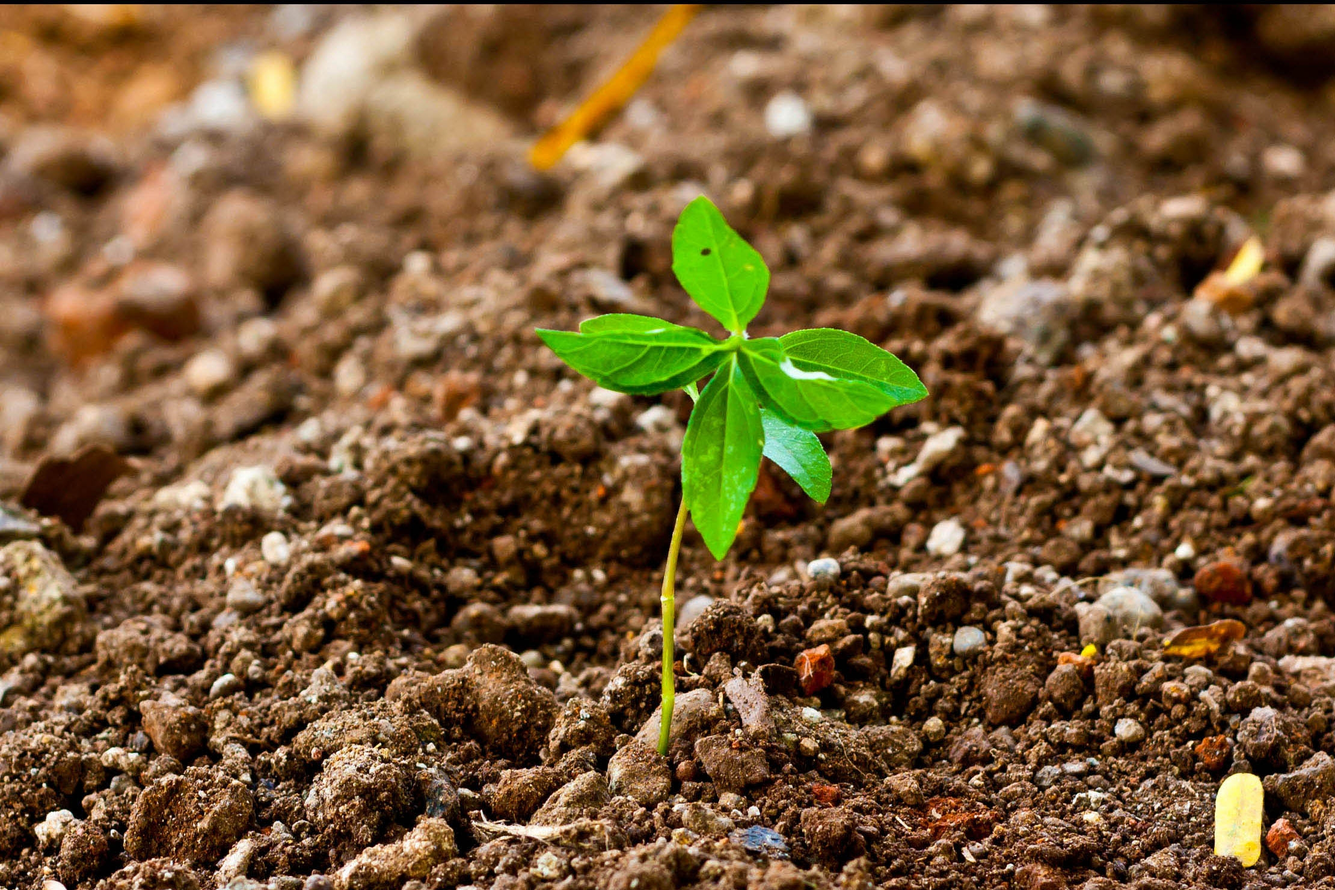
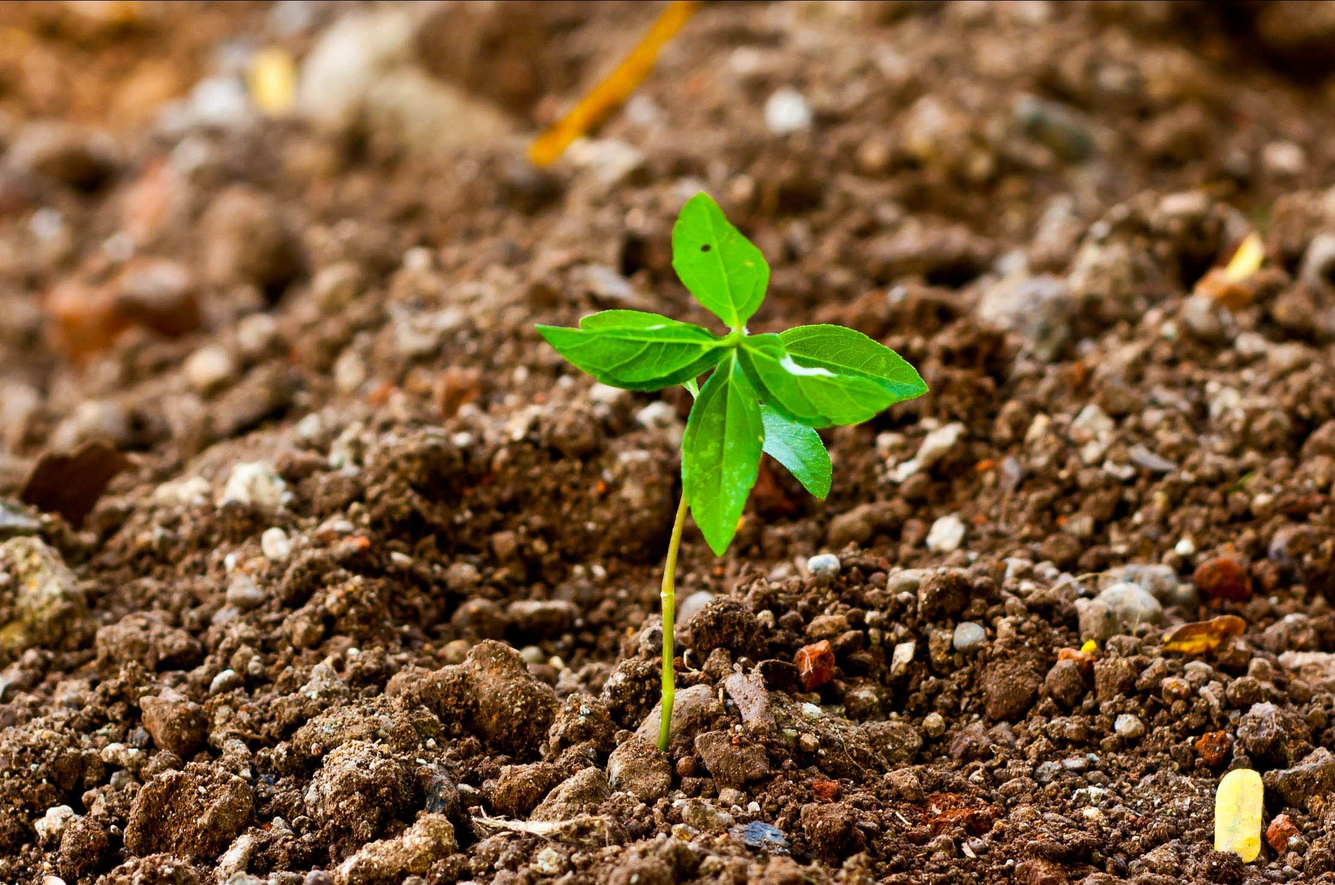
Set roots SVG to be centered (mobile and desktop)

diff --git a/sass/style.scss b/sass/style.scss
@@ -8,6 +8,7 @@ $bgimage: "../.ideas/stock-photo-young-plant-in-the-morning-light-174839018_crop
 $bgUnderground: "../.ideas/stock-photo-young-plant-in-the-morning-light-174839018_crop_underground.png";
 
 $headerBGwide: "../img/center01_wide.jpg";
+$headerBGmobile: "../img/center01_mobile.jpg";
 $rootsBG: "../img/rootsCentered.svg";
 
 // $soilBrown: #403930;
@@ -31,6 +32,7 @@ $fontMonospace: "Source Code Pro", monospace;
 $fontAdam: 'Adam CG Pro', sans-serif;
 
 $colorWhiteGreen: #A9DA88;
+$colorTanSoil: #EBBD8A; //#C5A27D #BD915D
 
 @import 'adamcgpro';
 /* NOTE: Will need to use "Autoprefixer" */
@@ -70,13 +72,18 @@ body {
   // background-attachment: fixed;
   // background-size: cover;
   background-size: cover;
-  @media (min-aspect-ratio: 2/1) {
-    background-size: 100%;
-  }
+  // @media (min-aspect-ratio: 2/1) {
+  //   background-size: 100%;
+  // }
   
   background-position: bottom center;
   // box-shadow: inset 0 -16px 16px -10px $colorBrown, 
-              // 0 16px 16px -10px $colorBrown;
+  //             0 16px 16px -10px $colorBrown;
+  
+  @media (max-width: 480px) {
+    background-image: url($headerBGmobile);
+    // background-size: contain;
+  }
 }
 
 #containerRootsImage {
@@ -92,21 +99,34 @@ body {
 }
 #rootsImage {
   position: absolute;
-  width: 100%;
+  width: 100vw;
+  height: 100vh;
   // top: -20px;
   top: 0px;
   // NOTE: to move the root relative to the width of the whole image, modify <g id="rootG" transform="translate(MODIFY_THIS_X=480, y=-124.03913) 
   //right: 0px;
   //width: 100%;
   //height: calc(100% - 50px);
-  height: 580px;
   background-image: url($rootsBG); //TODO: move $bgUnderground to it's own element to simplify bg-position
   background-repeat: no-repeat;
   background-position: top center;
-  background-size: cover;
-  @media (min-aspect-ratio: 2/1) {
-    background-size: 100%;
+  // background-size: cover;
+  background-size: 30vw;
+  @media (max-width: 600px) {
+    background-size: 50vw;
   }
+  @media (max-width: 480px) {
+    background-size: 70vw;
+  }
+  @media (max-width: 320px) {
+    background-size: 100vw;
+  }
+  // @media (max-aspect-ratio: 7/8) {
+  //   background-size: 80vw;
+  // }
+  // @media (max-aspect-ratio: 2/3) {
+  //   background-size: 100vw;
+  // }
 }
 
 //*************************************** Page Title ***************************************

diff --git a/css/style.css b/css/style.css
@@ -32,9 +32,9 @@ body {
   background-repeat: no-repeat;
   background-size: cover;
   background-position: bottom center; }
-  @media (min-aspect-ratio: 2 / 1) {
+  @media (max-width: 480px) {
     #headerImage {
-      background-size: 100%; } }
+      background-image: url("../img/center01_mobile.jpg"); } }
 
 #containerRootsImage {
   position: absolute;
@@ -46,16 +46,22 @@ body {
 
 #rootsImage {
   position: absolute;
-  width: 100%;
+  width: 100vw;
+  height: 100vh;
   top: 0px;
-  height: 580px;
   background-image: url("../img/rootsCentered.svg");
   background-repeat: no-repeat;
   background-position: top center;
-  background-size: cover; }
-  @media (min-aspect-ratio: 2 / 1) {
+  background-size: 30vw; }
+  @media (max-width: 600px) {
     #rootsImage {
-      background-size: 100%; } }
+      background-size: 50vw; } }
+  @media (max-width: 480px) {
+    #rootsImage {
+      background-size: 70vw; } }
+  @media (max-width: 320px) {
+    #rootsImage {
+      background-size: 100vw; } }
 
 #title h1 {
   font-family: "Adam CG Pro", sans-serif;
